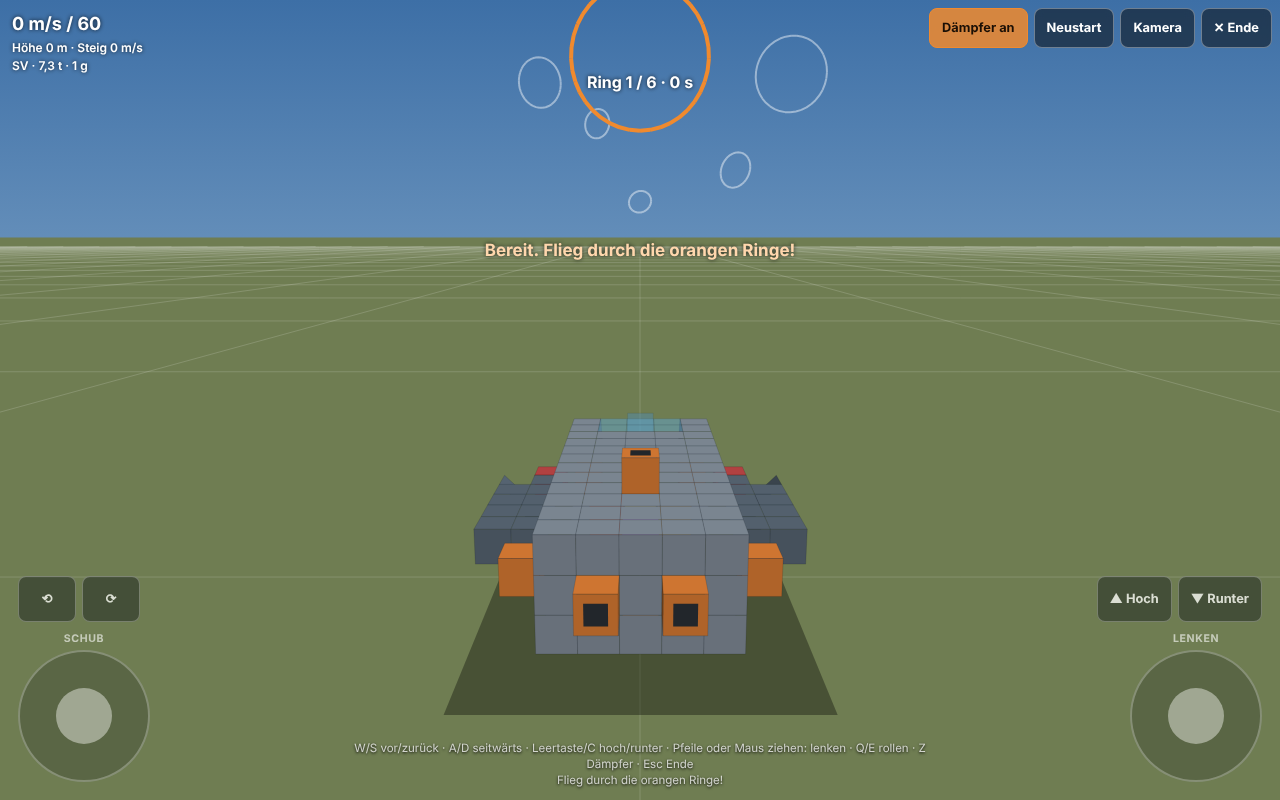
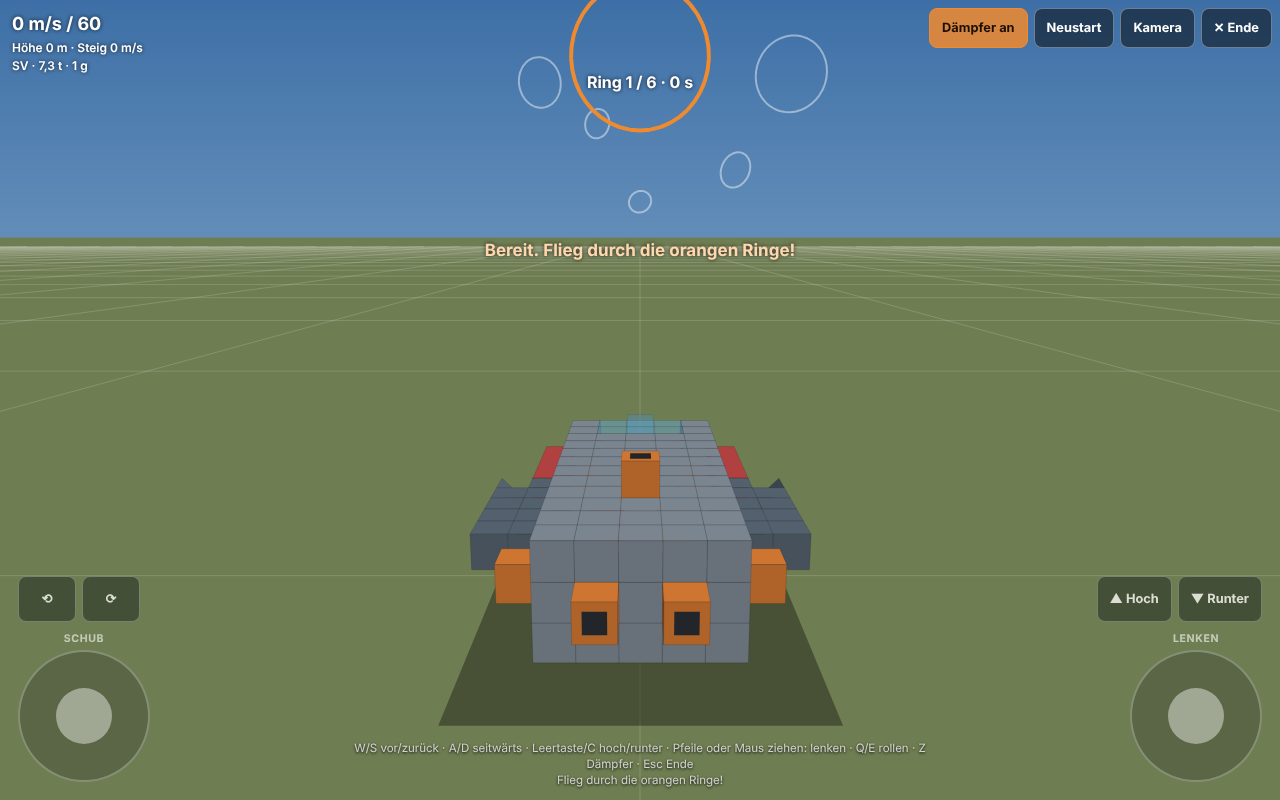
Werftplaner v15: Spielerlevel je Design, 34 Spezialblöcke (Waffen, Geschütztürme, Bohrer, Spezialgeräte) mit Werten und Freischalt-Level, Düsengrößen wie im Spiel
Claude-Session: https://claude.ai/code/session_01EEE27PnyooVbBu9ojswhkn

Changed region(s): [[0.3438, 0.6562, 0.6562, 0.8438], [0.4062, 0.5, 0.625, 0.6562], [0.3438, 0.875, 0.6562, 0.9062]]

diff --git a/index.html b/index.html
@@ -528,7 +528,7 @@ kbd{font-family:var(--f-mono);font-size:.7rem;border:1px solid var(--line);borde
 <div class="modal" id="statModal" hidden>
   <div class="sheet" role="dialog" aria-modal="true" aria-labelledby="statTitle">
     <div class="shead"><h3 id="statTitle">Spielwerte</h3><button class="ib" data-close="statModal" aria-label="Schließen">✕</button></div>
-    <p class="msg">Werte je Block aus der Vanilla-Blockliste (BlocksConfig). Im Spiel stehen sie im Tooltip eines Blocks. Weicht deine Spielversion ab, trag den Wert hier ein; geänderte Felder sind orange umrandet. <b>Wert</b> ist je nach Gerät Schub (kN), Drehmoment (kNm), Schwebekraft (kN) oder Leistung (kW).</p>
+    <p class="msg">Werte je Block aus der Vanilla-Blockliste (BlocksConfig). Im Spiel stehen sie im Tooltip eines Blocks. Weicht deine Spielversion ab, trag den Wert hier ein; geänderte Felder sind orange umrandet. <b>Level</b> ist das Spielerlevel, ab dem der Block im Techtree freigeschaltet werden kann. <b>Wert</b> ist je nach Gerät Schub (kN), Drehmoment (kNm), Schwebekraft (kN) oder Leistung (kW).</p>
     <div class="fld"><span>Gruppe</span><select id="statGrp"><option value="small">Klein · SV</option><option value="hv">Klein · HV (nur Abweichungen)</option><option value="large">Groß · CV / BA</option><option value="ba">Groß · nur BA (Abweichungen)</option></select></div>
     <div class="sztable"><table id="statTable"></table></div>
     <div class="row"><button class="btn" id="statReset">Alle wie in der Blockliste</button><p class="msg" id="statMsg" aria-live="polite"></p></div>
@@ -615,19 +615,60 @@ const TYPES=[
   {id:'light',n:'Licht',g:'Ausstattung',c:'#f1df86',k:'L'},
   {id:'gear',n:'Landebein',g:'Ausstattung',c:'#757e88',k:'Lb'},
   {id:'shield',n:'Schildgenerator',g:'Waffen & Verteidigung',c:'#47bfd6',k:'Sh'},
-  {id:'weapon',n:'Feste Waffe',g:'Waffen & Verteidigung',c:'#c94a4a',k:'Wf'},
-  {id:'turret',n:'Geschützturm',g:'Waffen & Verteidigung',c:'#9e3636',k:'Gt'},
-  {id:'drill',n:'Bohrer / Multitool-Modul',g:'Waffen & Verteidigung',c:'#8a8f3a',k:'Bo'},
+  {id:'weapon',n:'Feste Waffe (allgemein, alt)',g:'Waffen & Verteidigung',c:'#c94a4a',k:'Wf',old:1},
+  {id:'turret',n:'Geschützturm (allgemein, alt)',g:'Waffen & Verteidigung',c:'#9e3636',k:'Gt',old:1},
+  {id:'drill',n:'Bohrer (allgemein, alt)',g:'Waffen & Verteidigung',c:'#8a8f3a',k:'Bo',old:1},
+  {id:'wGatling',n:'Gatling-Kanone (SV/HV)',g:'Feste Waffen',c:'#c94a4a',k:'Ga'},
+  {id:'wRocket',n:'Raketenwerfer (SV)',g:'Feste Waffen',c:'#d0603a',k:'Ra'},
+  {id:'wHoming',n:'Lenkraketenwerfer (SV)',g:'Feste Waffen',c:'#c2502f',k:'LR'},
+  {id:'wRail',n:'Railgun (SV/HV)',g:'Feste Waffen',c:'#a83f5c',k:'Rg'},
+  {id:'wPlasma',n:'Plasmakanone (SV)',g:'Feste Waffen',c:'#b5427a',k:'Pk'},
+  {id:'wPulse',n:'Pulslaser (SV/HV)',g:'Feste Waffen',c:'#c23d3d',k:'PL'},
+  {id:'wCvRocket',n:'Raketenwerfer (CV)',g:'Feste Waffen',c:'#a6492b',k:'RC'},
+  {id:'wCvPulse',n:'Pulslaser (CV)',g:'Feste Waffen',c:'#9c2f3a',k:'PC'},
+  {id:'tMinigun',n:'Minigun-Turm',g:'Geschütztürme',c:'#8e3434',k:'TM'},
+  {id:'tCannon',n:'Kanonenturm',g:'Geschütztürme',c:'#7d2f2f',k:'TK'},
+  {id:'tRocket',n:'Raketenturm',g:'Geschütztürme',c:'#94402a',k:'TR'},
+  {id:'tFlak',n:'Flakturm',g:'Geschütztürme',c:'#86453a',k:'TF'},
+  {id:'tPulse',n:'Pulslaser-Turm',g:'Geschütztürme',c:'#9b2c3d',k:'TL'},
+  {id:'tPlasma',n:'Plasmaturm',g:'Geschütztürme',c:'#913a6a',k:'TP'},
+  {id:'tArty',n:'Artillerieturm',g:'Geschütztürme',c:'#6e2828',k:'TA'},
+  {id:'tTool',n:'Multitool-Turm',g:'Geschütztürme',c:'#6f7a3a',k:'TT'},
+  {id:'tDrill',n:'Bohrturm',g:'Geschütztürme',c:'#7d7a30',k:'TB'},
+  {id:'sentry',n:'Selbstschussanlage (innen)',g:'Geschütztürme',c:'#a35050',k:'SA'},
+  {id:'dSv',n:'Bohrer T2 (SV)',g:'Bohrer & Werkzeuge',c:'#8a8f3a',k:'BS'},
+  {id:'dHv',n:'Bohrer (HV)',g:'Bohrer & Werkzeuge',c:'#949a42',k:'BH'},
+  {id:'dHvL',n:'Großer Bohrer (HV)',g:'Bohrer & Werkzeuge',c:'#7a7f2e',k:'BG'},
+  {id:'dHvT2',n:'Bohrer T2 (HV)',g:'Bohrer & Werkzeuge',c:'#a0a640',k:'B2'},
+  {id:'dCv',n:'Bohrer (CV)',g:'Bohrer & Werkzeuge',c:'#6c7128',k:'BC'},
+  {id:'saw',n:'Säge / Erntemodul (HV)',g:'Bohrer & Werkzeuge',c:'#6f9a3c',k:'Sä'},
+  {id:'detector',n:'Detektor / Scanner',g:'Spezialgeräte',c:'#4f8fb0',k:'De'},
+  {id:'pentaxid',n:'Pentaxidtank (Warp)',g:'Spezialgeräte',c:'#9d6fd0',k:'Px'},
+  {id:'ammo',n:'Munitionskiste',g:'Spezialgeräte',c:'#8a7a52',k:'Mu'},
+  {id:'repair',n:'Reparaturbucht',g:'Spezialgeräte',c:'#4f9d74',k:'Rp'},
+  {id:'teleporter',n:'Teleporter',g:'Spezialgeräte',c:'#5fb7c9',k:'Tp'},
+  {id:'gravity',n:'Schwerkraftgenerator',g:'Spezialgeräte',c:'#6b6fbf',k:'Gr'},
+  {id:'shield2',n:'Schildgenerator T2',g:'Spezialgeräte',c:'#2f9fbf',k:'S2'},
+  {id:'furnace',n:'Schmelzofen',g:'Spezialgeräte',c:'#c46b2b',k:'Of'},
+  {id:'decon',n:'Dekonstruktor',g:'Spezialgeräte',c:'#7f8f5a',k:'Dk'},
 ];
 /* Wo ein Block erlaubt ist (aus der Blockliste); fehlt ein Eintrag, ist er überall erlaubt */
 const np=o=>Object.assign(Object.create(null),o||{});
 const ALLOW=np({concrete:['BA'],solar:['BA'],cockpit:['CV','SV','HV'],rcs:['CV','SV','HV'],thruster:['CV','SV','HV'],hover:['HV'],warp:['CV','SV'],
-  plot:['BA','CV'],clone:['BA','CV'],weapon:['SV','HV','CV'],drill:['SV','HV']});
+  plot:['BA','CV'],clone:['BA','CV'],weapon:['SV','HV','CV'],drill:['SV','HV'],
+  wGatling:['SV','HV'],wRocket:['SV'],wHoming:['SV'],wRail:['SV','HV'],wPlasma:['SV'],wPulse:['SV','HV'],wCvRocket:['CV'],wCvPulse:['CV'],
+  tMinigun:['SV','HV','CV','BA'],tCannon:['CV','BA'],tRocket:['HV','CV','BA'],tFlak:['CV','BA'],tPulse:['CV','BA'],tPlasma:['HV','CV','BA'],tArty:['HV','CV','BA'],
+  tTool:['HV','CV'],tDrill:['HV','CV'],sentry:['CV','BA'],dSv:['SV'],dHv:['HV'],dHvL:['HV'],dHvT2:['HV'],dCv:['CV'],saw:['HV'],
+  detector:['SV','HV','CV'],repair:['CV','BA'],teleporter:['CV','BA'],gravity:['CV','BA'],shield2:['CV','BA'],furnace:['BA'],decon:['BA']});
 const allowed=(t,cls)=>!ALLOW[t]||ALLOW[t].includes(cls);
 /* Gerätegrößen aus der Blockliste, wie im Spiel: Breite × Höhe × Länge */
 const DEF_SZ={
-  large:{cpu2:['2x1x1'],cpu3:['2x1x1'],cpu4:['2x1x1'],generator:['1x1x1','3x3x3'],fuel:['1x1x1','1x2x1'],cockpit:['1x1x1'],thruster:['1x1x1','3x3x7'],warp:['3x3x5'],constructor:['2x2x2','3x3x3'],clone:['1x1x2'],shield:['2x2x2'],turret:['3x3x3'],weapon:['1x1x1']},
-  small:{cpu2:['2x1x1'],cpu3:['2x1x1'],cpu4:['2x1x1'],generator:['1x1x1','1x2x1'],cockpit:['1x1x2','3x1x3'],thruster:['1x1x1','1x1x3'],hover:['1x1x1','2x1x2'],warp:['1x1x2'],constructor:['1x1x2','1x2x1'],shield:['1x1x1'],weapon:['1x1x3','1x1x4'],turret:['1x1x1','2x2x2'],drill:['1x1x3','1x1x4']}};
+  large:{cpu2:['2x1x1'],cpu3:['2x1x1'],cpu4:['2x1x1'],wCvRocket:['1x1x8'],wCvPulse:['1x1x6'],tMinigun:['3x1x3'],tCannon:['3x1x3'],tRocket:['3x1x3'],tFlak:['3x1x3'],
+    tPulse:['3x1x3'],tPlasma:['3x1x3'],tArty:['5x2x5'],tTool:['3x1x3'],tDrill:['3x1x3'],dCv:['1x1x6'],repair:['1x1x1'],gravity:['2x2x2'],pentaxid:['1x2x1'],ammo:['1x1x1','2x1x1'],
+    furnace:['3x3x3'],decon:['2x2x2'],shield2:['3x3x3'],generator:['1x1x1','3x3x3'],fuel:['1x1x1','1x2x1'],cockpit:['1x1x1'],thruster:['1x1x1','1x1x2','2x2x4','3x3x7'],warp:['3x3x5'],constructor:['2x2x2','3x3x3'],clone:['1x1x2'],shield:['2x2x2'],turret:['3x3x3'],weapon:['1x1x1']},
+  small:{cpu2:['2x1x1'],cpu3:['2x1x1'],cpu4:['2x1x1'],wGatling:['1x1x4'],wRocket:['1x1x3'],wHoming:['1x1x3'],wRail:['1x1x6'],wPlasma:['1x1x5'],wPulse:['1x1x4'],
+    tMinigun:['3x1x3'],tRocket:['3x1x3'],tPlasma:['3x1x3'],tArty:['5x2x5'],tTool:['3x1x3'],tDrill:['3x1x3'],dSv:['1x1x6'],dHv:['1x1x6'],dHvL:['3x3x8'],dHvT2:['1x1x6'],saw:['5x1x2'],
+    pentaxid:['1x1x2'],generator:['1x1x1','1x2x1'],cockpit:['1x1x2','3x1x3'],thruster:['1x1x1','1x1x2','1x1x3'],hover:['1x1x1','2x1x2'],warp:['1x1x2'],constructor:['1x1x2','1x2x1'],shield:['1x1x1'],weapon:['1x1x3','1x1x4'],turret:['1x1x1','2x2x2'],drill:['1x1x3','1x1x4']}};
 const parseSizes=str=>{const out=[],re=/(\d+)\s*[x×*]\s*(\d+)\s*[x×*]\s*(\d+)/gi;let m;while((m=re.exec(String(str))))out.push([m[1],m[2],m[3]].map(n=>Math.max(1,Math.min(16,+n))));return out};
 for(const g in DEF_SZ){DEF_SZ[g]=np(DEF_SZ[g]);for(const t in DEF_SZ[g])DEF_SZ[g][t]=parseSizes(DEF_SZ[g][t].join(','))}
 const fmtSz=a=>a.join('×');
@@ -786,9 +827,9 @@ function sample(){
   set(3,2,16,'thruster',{d:'f'}); set(5,2,16,'thruster',{d:'f'});
   set(2,1,3,'thruster',{d:'b'}); set(6,1,3,'thruster',{d:'b'});
   set(1,2,14,'thruster',{d:'r'}); set(7,2,14,'thruster',{d:'l'});
-  set(4,0,6,'thruster',{d:'u'}); set(4,0,12,'thruster',{d:'u'}); set(4,4,12,'thruster',{d:'d'});
+  set(3,0,6,'thruster',{d:'u'}); set(5,0,6,'thruster',{d:'u'}); set(3,0,12,'thruster',{d:'u'}); set(5,0,12,'thruster',{d:'u'}); set(4,4,12,'thruster',{d:'d'});
   set(2,0,5,'gear'); set(6,0,5,'gear'); set(2,0,13,'gear'); set(6,0,13,'gear');
-  set(1,2,7,'weapon'); set(7,2,7,'weapon');
+  set(1,2,4,'wGatling',{l:4}); set(7,2,4,'wGatling',{l:4});
   S=prev;return s;
 }
 
@@ -849,7 +890,7 @@ function setView(v){shell.dataset.view=v;document.querySelectorAll('.tabs [data-
 function renderDrawer(){
   const L=$('#dlist');L.innerHTML='';const groups={};TYPES.forEach(t=>(groups[t.g]=groups[t.g]||[]).push(t));
   for(const g in groups){const d=document.createElement('div');d.className='grp';d.innerHTML=`<div class="lbl">${g}</div>`;
-    groups[g].forEach(t=>{const b=document.createElement('button');b.className='blk';b.dataset.id=t.id;
+    groups[g].forEach(t=>{if(t.old)return;const b=document.createElement('button');b.className='blk';b.dataset.id=t.id;
       b.innerHTML=`<span class="sw" style="background:${t.c};color:${ink(t.c)}">${t.dir?'↑':t.k}</span><span class="nm">${t.n}</span><span class="tagsz"></span>`;
       b.onclick=()=>{cur=t.id;if(t.hull)lastHull=t.id;if(tool!=='paint'&&tool!=='pan')setTool('paint');syncUI();
         if(t.hull)openModal('shapeModal');else if(t.dir)openModal('dirModal');else if(sizeList(t.id).length>1)openModal('sizeModal');else{closeDrawer();toast(t.n+' gewählt')}};
@@ -874,7 +915,7 @@ function syncUI(){
   const t=TM[cur];
   document.querySelectorAll('#dlist .blk').forEach(b=>b.setAttribute('aria-pressed',b.dataset.id===cur));
   document.querySelectorAll('#dlist .blk').forEach(b=>{const id=b.dataset.id,ok=allowed(id,S.cls),tg=b.querySelector('.tagsz');b.disabled=!ok;b.classList.toggle('na',!ok);
-    if(tg)tg.textContent=ok?(TM[id].hull?'Formen ›':TM[id].dir?'Richtung ›':sizeList(id).length>1?sizeList(id).length+' Größen ›':fmtSz(sizeList(id)[0])):'nur '+ALLOW[id].join('/')});
+    const lv=ok?minLvl(S.cls,id):null;if(tg)tg.textContent=ok?(TM[id].hull?'Formen ›':TM[id].dir?'Richtung ›':sizeList(id).length>1?sizeList(id).length+' Größen ›':fmtSz(sizeList(id)[0]))+(lv>1?' · L'+lv:''):'nur '+ALLOW[id].join('/')});
   // Formen-Pop-up
   const mat=TM[t.hull?cur:lastHull];
   const key=mat.id+'|'+(window.devicePixelRatio||1)+'|'+T.edge;
@@ -1158,6 +1199,9 @@ function updateInfo(){
       const R=flyCalc(),lim=CPU_TIER[cls][top-1];
       if(top>1)add('ok',`CPU-Stufe T${top} aktiv (${nf(lim,0)} CPU)`);
       if(R.cpu>lim)add('warn',`CPU-Verbrauch ${nf(R.cpu,0)} über der Grenze von T${top} (${nf(lim,0)}) – Schub und Konstruktoren werden langsamer.${top<4?' Mehr CPU-Erweiterungen helfen.':''}`)}
+    {const LV=levelCalc(),top=LV.list.filter(o=>o.l>1).slice(0,4);
+      add('info',`Spielerlevel für dieses Design: <b>mindestens ${LV.max}</b>`+(top.length?' – '+top.map(o=>`${lvlName(o)} L${o.l}`).join(', '):' (nur Grundblöcke)'));
+      const old=['weapon','turret','drill'].filter(t=>c(t));if(old.length)add('info','Allgemeine Blöcke aus älteren Designs ('+old.map(t=>TM[t].n.replace(/ \(.*/,'')).join(', ')+') – für genaue Werte und Level durch die genauen Waffen, Türme oder Bohrer ersetzen.')}
     if(A.parts>1) add('warn',`${A.loose} Feld${A.loose===1?'':'er'} in ${A.parts-1} losen Teil${A.parts>2?'en':''} ohne Verbindung zum Hauptkörper.`);
   }
   $('#checks').innerHTML=L.map(([l,t])=>`<li><span class="dot ${l}"></span><span>${t}</span></li>`).join('');
@@ -1178,23 +1222,42 @@ function updateInfo(){
    Wert: Schub kN (Düse), Drehmoment kNm (RCS), Schwebekraft kN (Schwebetriebwerk), Leistung kW (Generator) */
 const VAL={thruster:['thr','Schub','kN'],rcs:['tq','Drehmoment','kNm'],hover:['lift','Schwebekraft','kN'],generator:['out','Leistung','kW']};
 const STATS={
-  small:{steel:[['1x1x1',8,0,0]],hsteel:[['1x1x1',32,0,0]],csteel:[['1x1x1',64,0,0]],xsteel:[['1x1x1',64,0,0]],carbon:[['1x1x1',3,0,0]],window:[['1x1x1',24,0,0]],
-    core:[['1x1x1',140,0,5]],cockpit:[['1x1x2',845,0,10],['3x1x3',1390,0,10]],generator:[['1x1x1',148,87,0,700],['1x2x1',262,187,0,1500]],
-    fuel:[['1x1x1',42,75,1],['1x2x1',88,150,1]],o2:[['1x1x1',69,40,3]],thruster:[['1x1x1',282,123,32,170],['1x1x3',406,203,38,275]],
-    rcs:[['1x1x1',256,1,10,100]],cpu2:[['2x1x1',250,0,5]],cpu3:[['2x1x1',500,0,7]],cpu4:[['2x1x1',750,0,10]],hover:[['1x1x1',140,50,10,200],['2x1x2',340,200,40,800]],warp:[['1x1x2',1490,3000,25]],cargo:[['1x1x1',45,15,1]],
-    constructor:[['1x1x2',507,2000,420],['1x2x1',507,2000,420]],food:[['1x1x1',62,30,3]],medstation:[['1x1x1',70,50,2]],clone:[['1x1x2',890,0,10]],
-    door:[['1x1x1',183,0,1]],light:[['1x1x1',.2,0,1]],gear:[['1x1x1',171,0,1]],shield:[['1x1x1',1630,1630,3600]],
-    weapon:[['1x1x3',365,720,5],['1x1x4',1896,2490,20]],turret:[['1x1x1',500,1100,15],['2x2x2',1050,1560,15]],drill:[['1x1x3',650,200,250],['1x1x4',2600,1200,250]]},
-  hv:{thruster:[['1x1x1',268,88,30,130],['1x1x3',390,145,45,235]],rcs:[['1x1x1',265,1,10,80]],shield:[['1x1x1',1630,1540,3600]],constructor:[['1x1x2',390,2000,420],['1x2x1',390,2000,420]],
-    medstation:[['1x1x1',130,95,10]],turret:[['1x1x1',500,900,5],['2x2x2',1050,1560,5]],drill:[['1x1x3',650,200,250],['1x1x4',2600,1200,250]]},
-  large:{steel:[['1x1x1',1000,0,0]],hsteel:[['1x1x1',2000,0,0]],csteel:[['1x1x1',4000,0,0]],xsteel:[['1x1x1',3910,0,0]],carbon:[['1x1x1',100,0,0]],wood:[['1x1x1',360,0,0]],
-    concrete:[['1x1x1',1100,0,0]],window:[['1x1x1',330,0,0]],core:[['1x1x1',140,0,5]],cockpit:[['1x1x1',800,0,20]],
-    generator:[['1x1x1',1480,312,0,2500],['3x3x3',13377,3125,0,25000]],fuel:[['1x1x1',1386,300,1],['1x2x1',2513,675,1]],o2:[['1x1x1',810,200,5]],
-    solar:[['1x1x1',730,45,0]],thruster:[['1x1x1',9496,13340,720,18100],['3x3x7',62897,533600,12442,920000]],rcs:[['1x1x1',15960,1,25,10000]],cpu2:[['2x1x1',1075,0,50]],cpu3:[['2x1x1',2150,0,85]],cpu4:[['2x1x1',3225,0,100]],
-    warp:[['3x3x5',82200,40000,25]],cargo:[['1x1x1',50,15,1]],constructor:[['2x2x2',4114,20000,500],['3x3x3',13800,40000,1500]],plot:[['1x1x1',2080,0,0]],
-    food:[['1x1x1',1000,200,150]],medstation:[['1x1x1',595,200,2]],clone:[['1x1x2',1065,0,10]],door:[['1x1x1',295,0,1]],light:[['1x1x1',.4,0,1]],
-    gear:[['1x1x1',1700,0,1]],shield:[['2x2x2',12920,18100,18000]],turret:[['3x3x3',6120,2500,5]],weapon:[['1x1x1',2485,480,10]]},
-  ba:{shield:[['2x2x2',12920,24700,25000]],cpu2:[['2x1x1',1150,0,50]]}};
+  small:{steel:[['1x1x1',8,0,0,0,1]],hsteel:[['1x1x1',32,0,0,0,1]],csteel:[['1x1x1',64,0,0,0,1]],xsteel:[['1x1x1',64,0,0,0,1]],carbon:[['1x1x1',3,0,0,0,1]],window:[['1x1x1',24,0,0,0,1]],
+    core:[['1x1x1',140,0,5,0,1]],cockpit:[['1x1x2',845,0,10,0,1],['3x1x3',1390,0,10,0,10]],generator:[['1x1x1',148,87,0,700,1],['1x2x1',262,187,0,1500,3]],
+    fuel:[['1x1x1',42,75,1,0,1],['1x2x1',88,150,1,0,3]],o2:[['1x1x1',69,40,3,0,1]],
+    thruster:[['1x1x1',184,56,20,40,5],['1x1x2',282,123,32,170,7],['1x1x3',406,203,38,275,10]],
+    rcs:[['1x1x1',256,1,10,100,5]],cpu2:[['2x1x1',250,0,5,0,7]],cpu3:[['2x1x1',500,0,7,0,12]],cpu4:[['2x1x1',750,0,10,0,20]],
+    hover:[['1x1x1',140,50,10,200,3],['2x1x2',340,200,40,800,8]],warp:[['1x1x2',1490,3000,25,0,10]],cargo:[['1x1x1',45,15,1,0,1]],
+    constructor:[['1x1x2',507,2000,420,0,7],['1x2x1',507,2000,420,0,7]],food:[['1x1x1',62,30,3,0,3]],medstation:[['1x1x1',70,50,2,0,3]],clone:[['1x1x2',890,0,10,0,5]],
+    door:[['1x1x1',183,0,1,0,1]],light:[['1x1x1',.2,0,1,0,1]],gear:[['1x1x1',171,0,1,0,5]],shield:[['1x1x1',1630,1630,3600,0,7]],
+    weapon:[['1x1x3',365,720,5,0,3],['1x1x4',1896,2490,20,0,15]],turret:[['1x1x1',500,1100,15,0,5],['2x2x2',1050,1560,15,0,15]],drill:[['1x1x3',850,380,400,0,20],['1x1x4',850,380,400,0,20]],
+    wGatling:[['1x1x4',365,720,5,0,3]],wRocket:[['1x1x3',521,105,6,0,7]],wHoming:[['1x1x3',990,970,8,0,12]],wRail:[['1x1x6',1896,2490,20,0,15]],
+    wPlasma:[['1x1x5',1682,75,20,0,17]],wPulse:[['1x1x4',1645,20,20,0,20]],tMinigun:[['3x1x3',500,1100,15,0,5]],dSv:[['1x1x6',850,380,400,0,20]],
+    detector:[['1x1x1',55,50,5,0,5]],pentaxid:[['1x1x2',328,200,0,0,7]],ammo:[['1x1x1',100,240,1,0,1]]},
+  hv:{thruster:[['1x1x1',183,40,15,7,3],['1x1x2',268,88,30,130,5],['1x1x3',390,145,45,235,7]],rcs:[['1x1x1',265,1,10,80,1]],shield:[['1x1x1',1630,1540,3600,0,7]],
+    constructor:[['1x1x2',390,2000,420,0,5],['1x2x1',390,2000,420,0,5]],medstation:[['1x1x1',130,95,10,0,7]],
+    turret:[['1x1x1',500,900,15,0,5],['2x2x2',1050,1560,25,0,15]],drill:[['1x1x3',650,200,250,0,7],['1x1x4',2600,1200,250,0,10]],
+    tMinigun:[['3x1x3',500,900,15,0,5]],tRocket:[['3x1x3',520,450,15,0,10]],tPlasma:[['3x1x3',1050,1560,25,0,15]],tArty:[['5x2x5',4350,5820,10,0,20]],
+    tTool:[['3x1x3',420,3000,750,0,15]],tDrill:[['3x1x3',790,3000,688,0,15]],dHv:[['1x1x6',650,200,250,0,7]],dHvL:[['3x3x8',2600,1200,250,0,10]],
+    dHvT2:[['1x1x6',1165,200,650,0,20]],saw:[['5x1x2',220,180,70,0,3]],detector:[['1x1x1',100,50,5,0,3]]},
+  large:{steel:[['1x1x1',1000,0,0,0,1]],hsteel:[['1x1x1',2000,0,0,0,1]],csteel:[['1x1x1',4000,0,0,0,1]],xsteel:[['1x1x1',3910,0,0,0,1]],carbon:[['1x1x1',100,0,0,0,1]],wood:[['1x1x1',360,0,0,0,1]],
+    concrete:[['1x1x1',1100,0,0,0,1]],window:[['1x1x1',330,0,0,0,1]],core:[['1x1x1',140,0,5,0,1]],cockpit:[['1x1x1',800,0,20,0,7]],
+    generator:[['1x1x1',1480,312,0,2500,3],['3x3x3',13377,3125,0,25000,10]],fuel:[['1x1x1',1386,300,1,0,3],['1x2x1',2513,675,1,0,10]],o2:[['1x1x1',550,100,5,0,1],['1x2x1',810,200,5,0,10]],
+    solar:[['1x1x1',730,45,0,0,3]],thruster:[['1x1x1',2361,1,450,7200,7],['1x1x2',9496,13340,720,18100,10],['2x2x4',14833,133400,4608,192100,15],['3x3x7',62897,533600,12442,920000,20]],
+    rcs:[['1x1x1',15960,1,25,10000,7]],cpu2:[['2x1x1',1075,0,50,0,10]],cpu3:[['2x1x1',2150,0,85,0,15]],cpu4:[['2x1x1',3225,0,100,0,20]],
+    warp:[['3x3x5',82200,40000,25,0,10]],cargo:[['1x1x1',50,15,1,0,1]],constructor:[['2x2x2',4114,20000,500,0,5],['3x3x3',13800,40000,1500,0,10]],plot:[['1x1x1',2080,0,0,0,1]],
+    food:[['1x1x1',310,200,300,0,3]],medstation:[['1x1x1',595,200,2,0,3]],clone:[['1x1x2',1065,0,10,0,1]],door:[['1x1x1',295,0,1,0,1]],light:[['1x1x1',.4,0,1,0,1]],
+    gear:[['1x1x1',1700,0,1,0,7]],shield:[['2x2x2',12920,18100,18000,0,10]],turret:[['3x3x3',6120,2500,5,0,7]],weapon:[['1x1x1',2485,480,10,0,20]],
+    wCvRocket:[['1x1x8',2485,480,10,0,20]],wCvPulse:[['1x1x6',2715,7200,25,0,25]],tMinigun:[['3x1x3',6120,2500,5,0,7]],tCannon:[['3x1x3',6150,2500,5,0,7]],
+    tRocket:[['3x1x3',5777,9700,5,0,12]],tFlak:[['3x1x3',5777,1300,5,0,12]],tPulse:[['3x1x3',11760,15100,25,0,20]],tPlasma:[['3x1x3',8490,20700,15,0,20]],
+    tArty:[['5x2x5',19800,21600,70,0,25]],tTool:[['3x1x3',9660,3000,2450,0,20]],tDrill:[['3x1x3',9050,3000,3150,0,20]],sentry:[['1x1x1',320,1400,10,0,3]],
+    dCv:[['1x1x6',3650,4000,2220,0,25]],detector:[['1x1x1',3520,1500,320,0,7]],repair:[['1x1x1',9225,25000,20000,0,15]],teleporter:[['1x1x1',2500,20000,6000,0,15]],
+    gravity:[['2x2x2',32000,50,100,0,7]],pentaxid:[['1x2x1',2465,400,0,0,10]],ammo:[['1x1x1',100,240,1,0,1],['2x1x1',1975,240,1,0,3]],
+    furnace:[['3x3x3',31825,10000,2500,0,12]],decon:[['2x2x2',14700,20000,825,0,12]],shield2:[['3x3x3',14635,3310,36000,0,15]]},
+  ba:{shield:[['2x2x2',12920,24700,25000,0,10]],shield2:[['3x3x3',14635,45500,50000,0,15]],cpu2:[['2x1x1',1150,0,50,0,7]],cpu3:[['2x1x1',2150,0,85,0,12]],cpu4:[['2x1x1',3225,0,100,0,20]],
+    tMinigun:[['3x1x3',6000,2800,5,0,5]],tCannon:[['3x1x3',5980,8600,5,0,5]],tRocket:[['3x1x3',5777,10500,5,0,10]],tFlak:[['3x1x3',5615,1300,5,0,10]],
+    tPulse:[['3x1x3',11760,15100,5,0,15]],tPlasma:[['3x1x3',8490,22300,10,0,15]],tArty:[['5x2x5',19800,22600,5,0,20]],turret:[['3x3x3',6120,2500,5,0,5]],
+    repair:[['1x1x1',12600,25000,25000,0,12]],teleporter:[['1x1x1',3200,35000,12000,0,15]]}};
 /* CPU-Grenzen je Stufe (Kern = T1, Erweiterungen T2–T4) */
 const CPU_TIER={HV:[5000,12000,30000,70000],SV:[6000,15000,40000,100000],CV:[200000,500000,1500000,10000000],BA:[80000,200000,500000,1300000]};
 const VMAX_DEF={HV:{planet:20,space:20},SV:{planet:60,space:120},CV:{planet:60,space:100},BA:{planet:0,space:0}};
@@ -1209,13 +1272,23 @@ const saveFly=()=>{const o=store();o.fly=FLY;storeSet(o)}, saveOV=()=>{const o=s
 const szVol=s=>s.split('x').reduce((a,b)=>a*(+b||1),1);
 const statSets=cls=>cls==='HV'?['hv','small']:cls==='BA'?['ba','large']:[CLASSES[cls].grp];
 function entry(gk,t,i){const e=STATS[gk][t][i],o=OV[gk+'|'+t+'|'+i]||{},pick=(k,d)=>o[k]!=null&&isFinite(o[k])?+o[k]:d;
-  return {sz:e[0],m:pick('m',e[1]),cpu:pick('cpu',e[2]),e:pick('e',e[3]),val:pick('val',e[4]||0)}}
+  return {sz:e[0],m:pick('m',e[1]),cpu:pick('cpu',e[2]),e:pick('e',e[3]),val:pick('val',e[4]||0),lvl:pick('lvl',e[5]||1)}}
 function devStat(cls,t,v){let gk=null;for(const k of statSets(cls))if(STATS[k][t]){gk=k;break}
   if(!gk)return null;const list=STATS[gk][t],vol=dims(v).reduce((a,b)=>a*b,1);let bi=0,bd=Infinity;
   list.forEach((e,i)=>{const d=Math.abs(Math.log(vol/szVol(e[0])));if(d<bd-1e-9){bd=d;bi=i}});
   const st=entry(gk,t,bi);/* eigene Größe außerhalb der Liste: Masse, CPU und Wert mit dem Rauminhalt hochrechnen */
   if(!TM[t].hull&&bd>.01){const f=vol/szVol(list[bi][0]);st.m*=f;st.cpu*=f;st.e*=f;st.val*=f;st.scaled=true}
   return st}
+
+/* Freischalt-Level (Techtree): niedrigstes Level eines Blocks für eine Klasse */
+function statList(cls,t){for(const k of statSets(cls))if(STATS[k][t])return [k,STATS[k][t]];return null}
+function minLvl(cls,t){const L=statList(cls,t);if(!L)return null;return Math.min(...L[1].map((e,i)=>entry(L[0],t,i).lvl))}
+function levelCalc(){const per=new Map();let max=1;
+  S.blocks.forEach(v=>{const st=devStat(S.cls,v.t,v);if(!st)return;const l=st.lvl||1;max=Math.max(max,l);
+    const key=v.t+'|'+l,o=per.get(key)||{t:v.t,l,n:0,sz:st.sz};o.n++;per.set(key,o)});
+  const list=[...per.values()].sort((a,b)=>b.l-a.l||TM[a.t].n.localeCompare(TM[b.t].n));
+  return {max,list}}
+const lvlName=o=>TM[o.t].n+(STATS.small[o.t]&&STATS.small[o.t].length>1||STATS.large[o.t]&&STATS.large[o.t].length>1?' '+o.sz.replace(/x/g,'×'):'');
 
 /* ---------- Flugberechnung ---------- */
 function flyCalc(){
@@ -1272,6 +1345,7 @@ function tilesHTML(R,Q){const t=(k,v,[l,txt])=>`<div class="ftile"><span class="
   const payT=R.cls==='BA'?['info','–']:R.g===0?['info','Weltraum: kein Hub nötig']:R.pay<0?['err','hebt leer nicht ab']:
     R.paySafe<0?['warn','keine sichere Reserve']:['ok','sicher bis '+fmtMass(R.paySafe)];
   return t('Masse',fmtMass(R.m0)+(R.load?' + '+fmtMass(R.load):''),['info',R.load?'mit Ladung':R.scaled?'teils hochgerechnet':'leer, aus Blockliste'])+
+    (()=>{const LV=levelCalc(),o=LV.list[0];return t('Spielerlevel','L '+LV.max,['info',o&&o.l>1?TM[o.t].n.replace(/ \(.*/,''):'Grundblöcke'])})()+
     t('Max. Zuladung',R.cls==='BA'?'–':R.g===0?'∞':fmtMass(Math.max(0,R.pay)),payT)+
     t('Beweglichkeit',nf(Q.mobV*G0,1)+' m/s²',Q.mob)+
     t(R.cls==='HV'?'Schwebekraft':'Hubkraft',liftTxt,Q.lift)+
@@ -1356,11 +1430,11 @@ $('#flyV').onchange=()=>{const v=+$('#flyV').value,k=S.cls+'|'+FLY.env;if(v>0&&v
 /* Spielwerte bearbeiten */
 function renderStats(){const gk=$('#statGrp').value,tb=$('#statTable'),G=STATS[gk];
   const inp=(id,f,v,own)=>`<input type="text" inputmode="decimal" data-k="${id}" data-f="${f}" value="${String(+(+v).toFixed(2)).replace('.',',')}" style="width:5.5em${own?';border-color:var(--accent)':''}" spellcheck="false">`;
-  tb.innerHTML='<tr><th>Block</th><th>Größe</th><th>Masse kg</th><th>CPU</th><th>Strom kW</th><th>Wert</th></tr>'+TYPES.filter(t=>G[t.id]).map(t=>G[t.id].map((e,i)=>{
+  tb.innerHTML='<tr><th>Block</th><th>Größe</th><th>Level</th><th>Masse kg</th><th>CPU</th><th>Strom kW</th><th>Wert</th></tr>'+TYPES.filter(t=>G[t.id]).map(t=>G[t.id].map((e,i)=>{
     const id=gk+'|'+t.id+'|'+i,st=entry(gk,t.id,i),o=OV[id]||{},vl=VAL[t.id];
-    return `<tr><td>${i?'':t.n}</td><td>${e[0].replace(/x/g,'×')}</td><td>${inp(id,'m',st.m,o.m!=null)}</td><td>${inp(id,'cpu',st.cpu,o.cpu!=null)}</td><td>${inp(id,'e',st.e,o.e!=null)}</td><td>${vl?inp(id,'val',st.val,o.val!=null)+' '+vl[2]:''}</td></tr>`}).join('')).join('');
+    return `<tr><td>${i?'':t.n}</td><td>${e[0].replace(/x/g,'×')}</td><td>${inp(id,'lvl',st.lvl,o.lvl!=null).replace('5.5em','3.2em')}</td><td>${inp(id,'m',st.m,o.m!=null)}</td><td>${inp(id,'cpu',st.cpu,o.cpu!=null)}</td><td>${inp(id,'e',st.e,o.e!=null)}</td><td>${vl?inp(id,'val',st.val,o.val!=null)+' '+vl[2]:''}</td></tr>`}).join('')).join('');
   tb.querySelectorAll('input').forEach(el=>el.onchange=()=>{const id=el.dataset.k,f=el.dataset.f,[g,t,i]=id.split('|'),e=STATS[g][t][+i];
-    const def={m:e[1],cpu:e[2],e:e[3],val:e[4]||0}[f],v=parseFloat(el.value.replace(/[\s\u00a0\u202f]/g,'').replace(',','.'));
+    const def={m:e[1],cpu:e[2],e:e[3],val:e[4]||0,lvl:e[5]||1}[f],v=parseFloat(el.value.replace(/[\s\u00a0\u202f]/g,'').replace(',','.'));
     const o=OV[id]||{};if(!isFinite(v)||v===def)delete o[f];else o[f]=Math.max(0,v);if(Object.keys(o).length)OV[id]=o;else delete OV[id];
     saveOV();renderStats();updateInfo();$('#statMsg').textContent='Gespeichert.'})}
 const openStats=()=>{$('#statGrp').value=S.cls==='HV'?'hv':CLASSES[S.cls].grp;renderStats();$('#statMsg').textContent='';openModal('statModal')};
@@ -1578,7 +1652,7 @@ new MutationObserver(()=>{if($('#editModal').hidden&&editSnap!==null)closeEditCl
 function renderSizes(){
   const tb=$('#szTable'),cell=(g,t)=>{const ok=DEVICES.find(x=>x.id===t)&&(g==='small'?['SV','HV']:['CV','BA']).some(c=>allowed(t,c));
     const own=SZ[g]&&SZ[g][t]&&SZ[g][t].length;return `<td class="g"><input type="text" id="sz-${g}-${t}" data-g="${g}" data-t="${t}" value="${sizeList(t,g).map(fmtSz).join(', ')}" ${ok?'':'disabled'} aria-label="${TM[t].n} ${g==='small'?'klein':'groß'}" spellcheck="false" style="width:9.5em${own?';border-color:var(--accent)':''}">${ok?'':'<div class="hint">nicht erlaubt</div>'}</td>`};
-  tb.innerHTML=`<tr><th>Gerät</th><th class="g">Klein · SV / HV</th><th class="g">Groß · CV / BA</th></tr>`+DEVICES.map(t=>`<tr><td>${t.n}</td>${cell('small',t.id)}${cell('large',t.id)}</tr>`).join('');
+  tb.innerHTML=`<tr><th>Gerät</th><th class="g">Klein · SV / HV</th><th class="g">Groß · CV / BA</th></tr>`+DEVICES.filter(t=>!t.old).map(t=>`<tr><td>${t.n}</td>${cell('small',t.id)}${cell('large',t.id)}</tr>`).join('');
   tb.querySelectorAll('input').forEach(e=>e.onchange=()=>{const g=e.dataset.g,t=e.dataset.t,list=parseSizes(e.value);
     const def=(DEF_SZ[g][t]||[[1,1,1]]).map(fmtSz).join();
     if(!list.length||list.map(fmtSz).join()===def){delete SZ[g][t];$('#szMsg').textContent='Wert aus der Blockliste übernommen.'}

diff --git a/sw.js b/sw.js
@@ -1,6 +1,6 @@
 // Werftplaner – Offline-Speicher
 // Bei einer neuen Version die Nummer erhöhen, damit Handys die neuen Dateien laden.
-const CACHE = 'werftplaner-v14';
+const CACHE = 'werftplaner-v15';
 const ASSETS = [
   './',
   './index.html',
